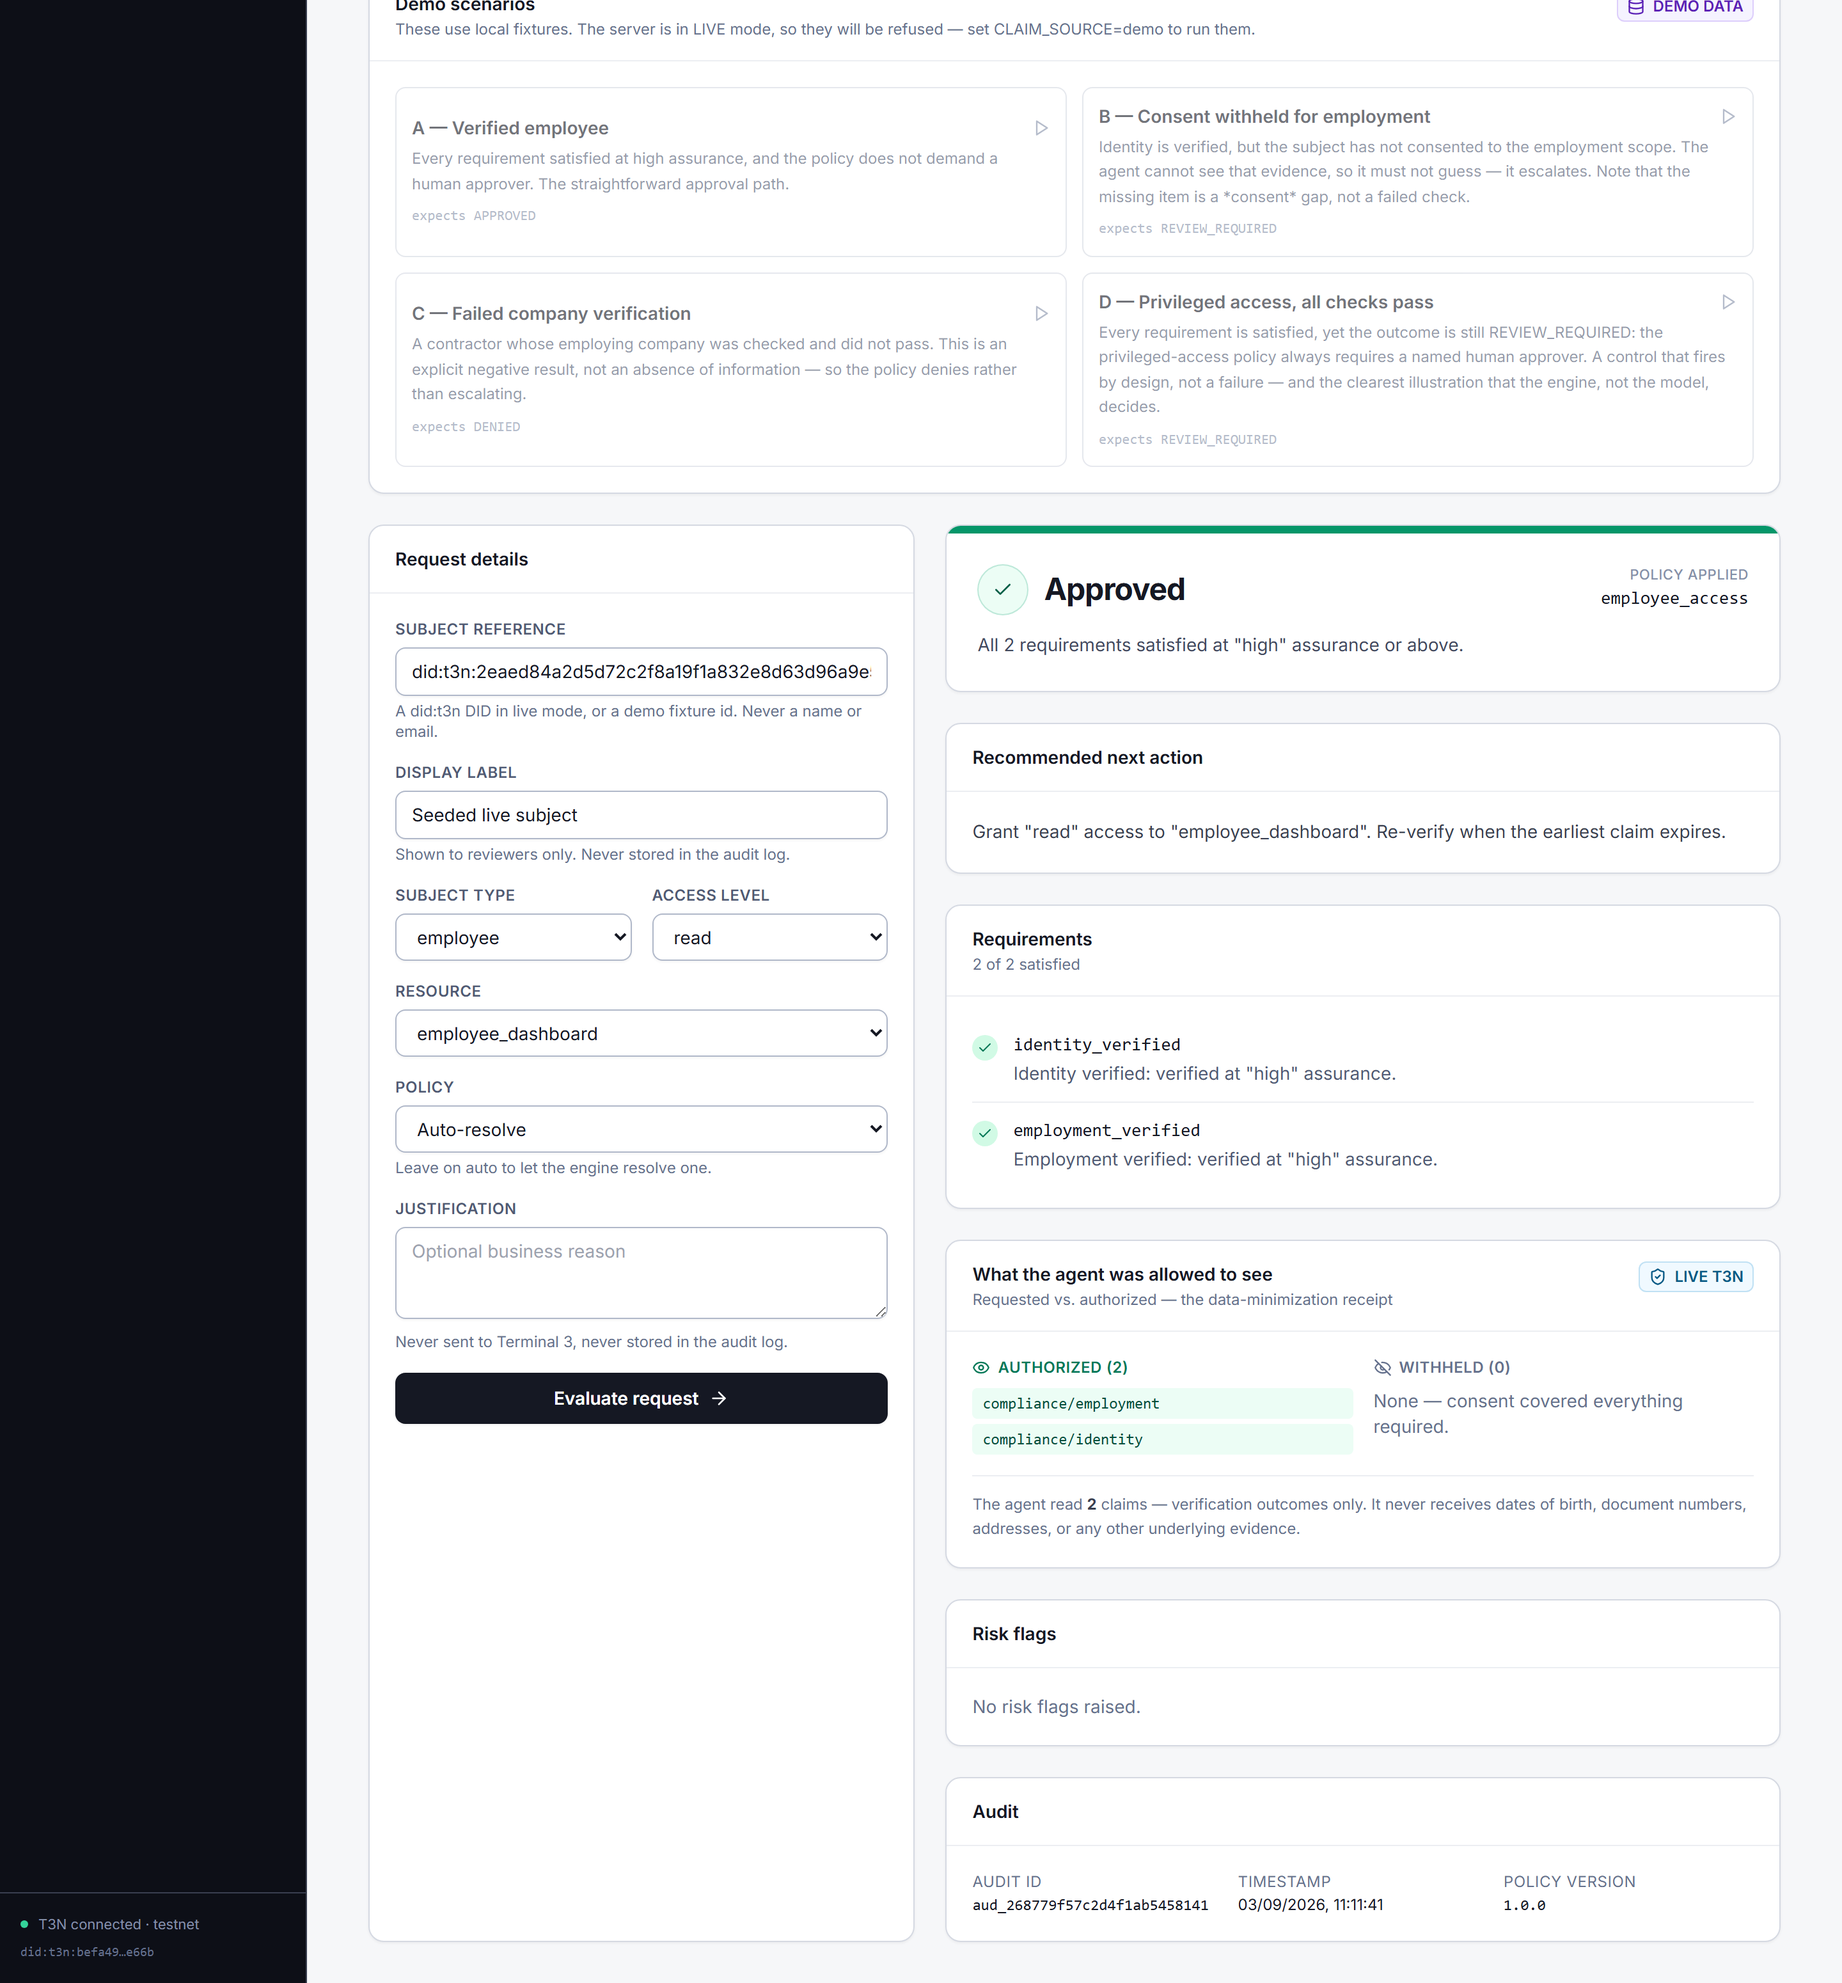
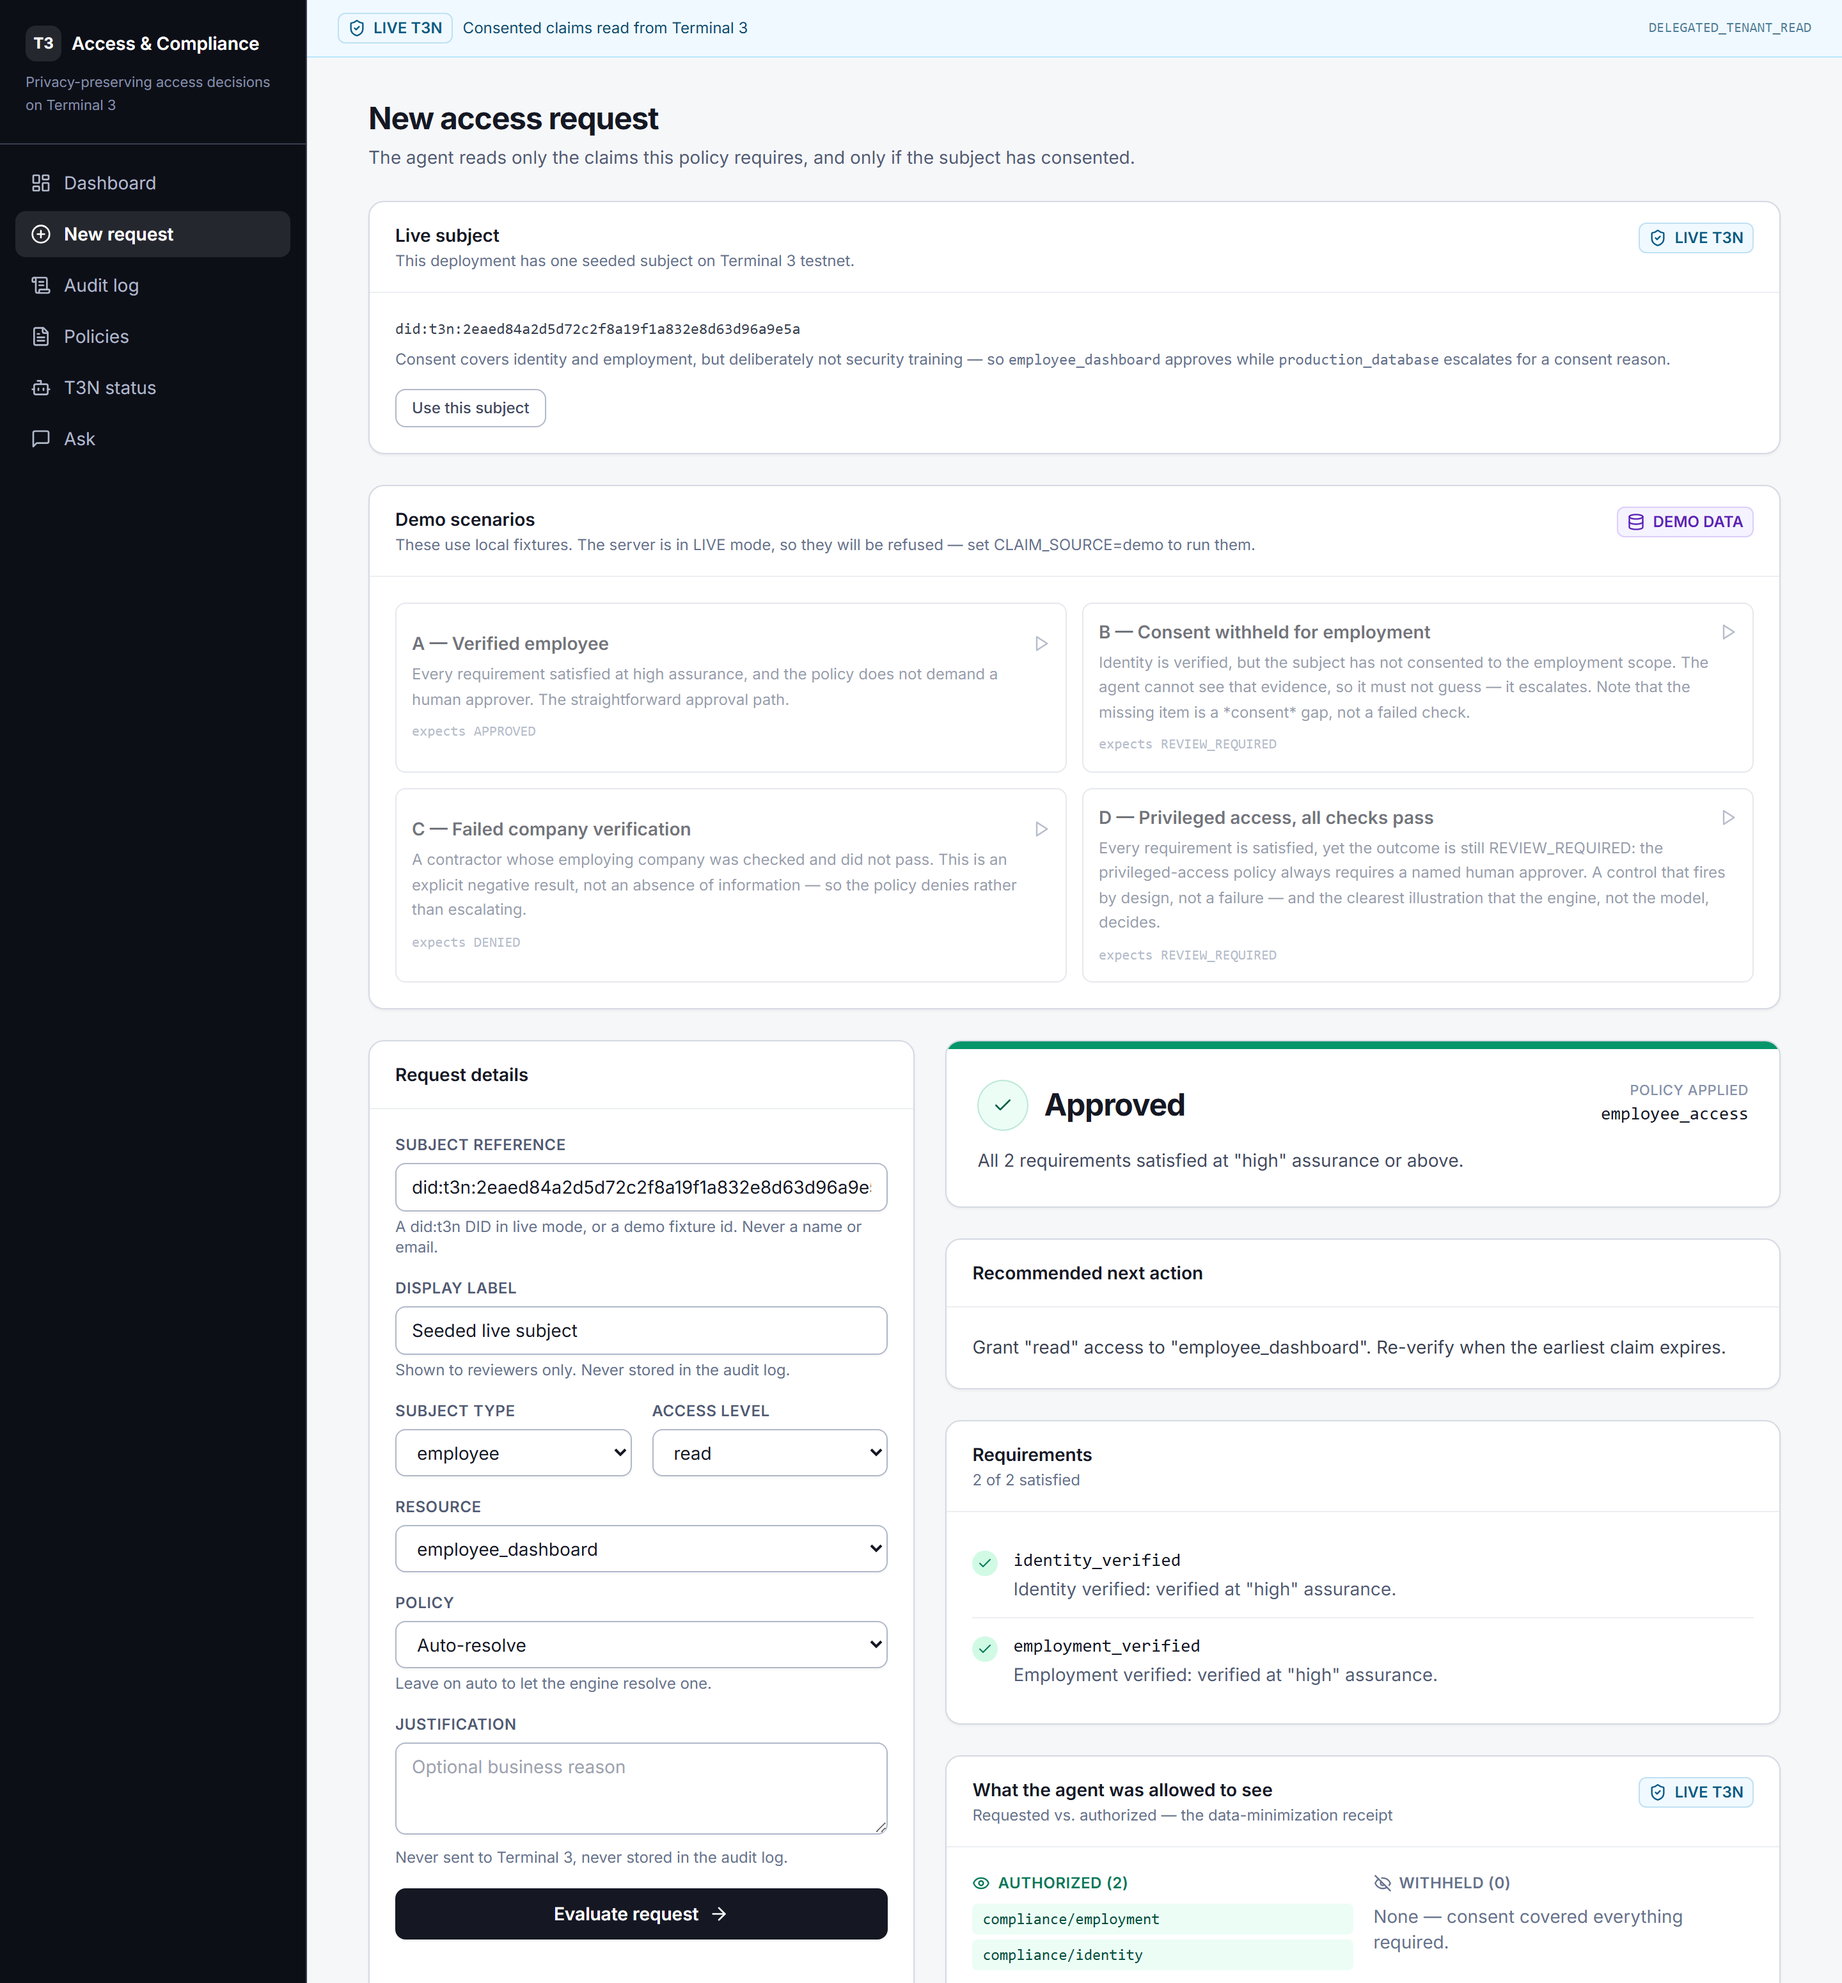
docs: regenerate the screenshot gallery against the current UI
The gallery was captured at 82a8306 on 3 September and the dashboard has moved
in five commits since, so the images a judge looks at showed an older and
slightly worse application than the one being submitted — no exact UTC
timestamp in the audit detail, none of the layout or accessibility work.

Captured the documented way: live mode for the decision screenshots so they
carry the LIVE T3N badge and real consent state, demo mode for the DENIED case,
which live data cannot show because the seeded subject has no failed
verification. Every image is the real application against real testnet data.

The capture script also gained a scroll-to-top before each shot. Clicking
"Evaluate" scrolls the result into view, so a plain viewport capture began
mid-page: the heading was sliced through and the entire left navigation was
missing, which made the gallery look like screenshots of a page fragment rather
than of an application. Every image now starts at the top of the page.

Playwright was installed for the capture and removed again afterwards, as the
script's own instructions describe — package.json and the lockfile are
unchanged.

diff --git a/scripts/capture-screenshots.ts b/scripts/capture-screenshots.ts
@@ -48,6 +48,11 @@ async function nav(page: Page, label: string): Promise<void> {
 
 async function shot(page: Page, file: string, height: number): Promise<void> {
   await page.setViewportSize({ width: WIDTH, height });
+  // Back to the top first. Clicking "Evaluate" scrolls the result into view, so
+  // a plain viewport capture started mid-page: the heading was sliced through
+  // and the whole left navigation was missing, which made the gallery look like
+  // screenshots of a page fragment rather than of an application.
+  await page.evaluate(() => window.scrollTo(0, 0));
   await page.waitForTimeout(700);
   await page.screenshot({ path: resolve(OUT, file) });
   console.log(`  ✓ ${file}`);
